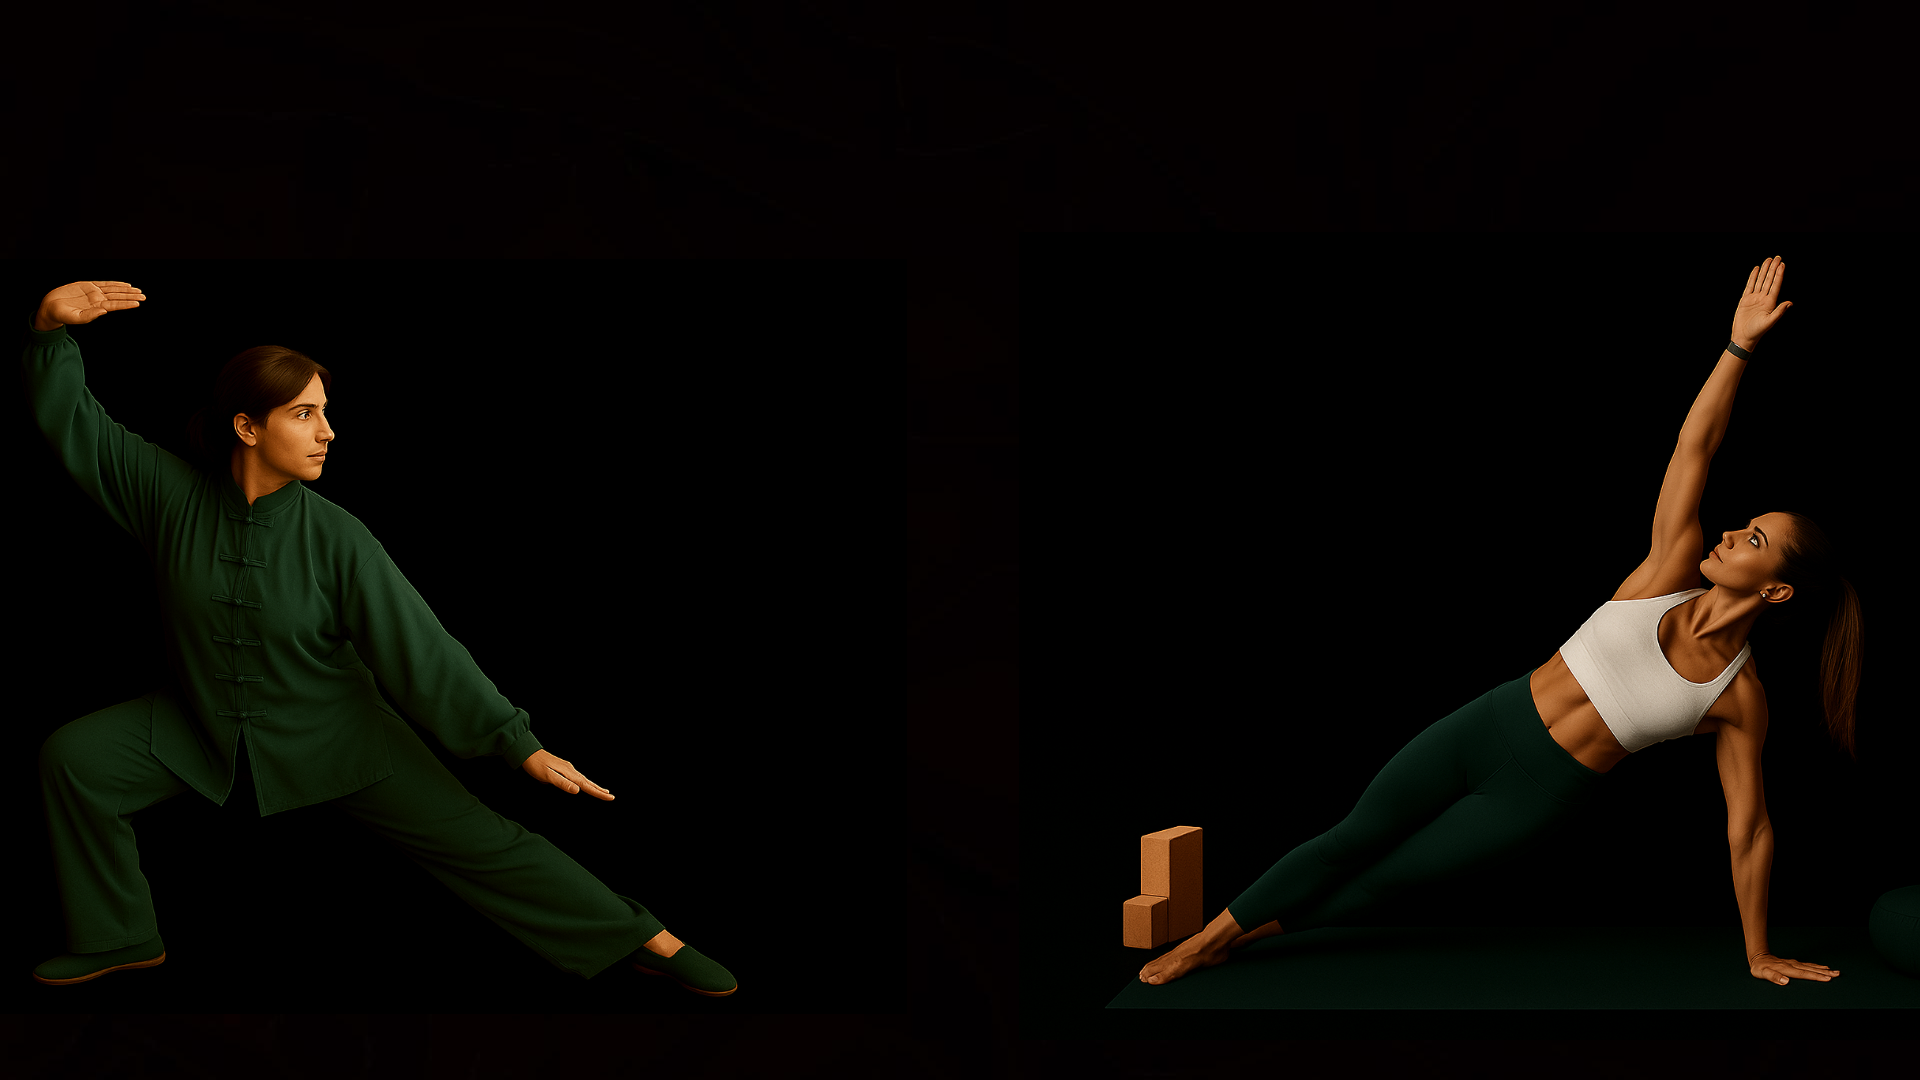
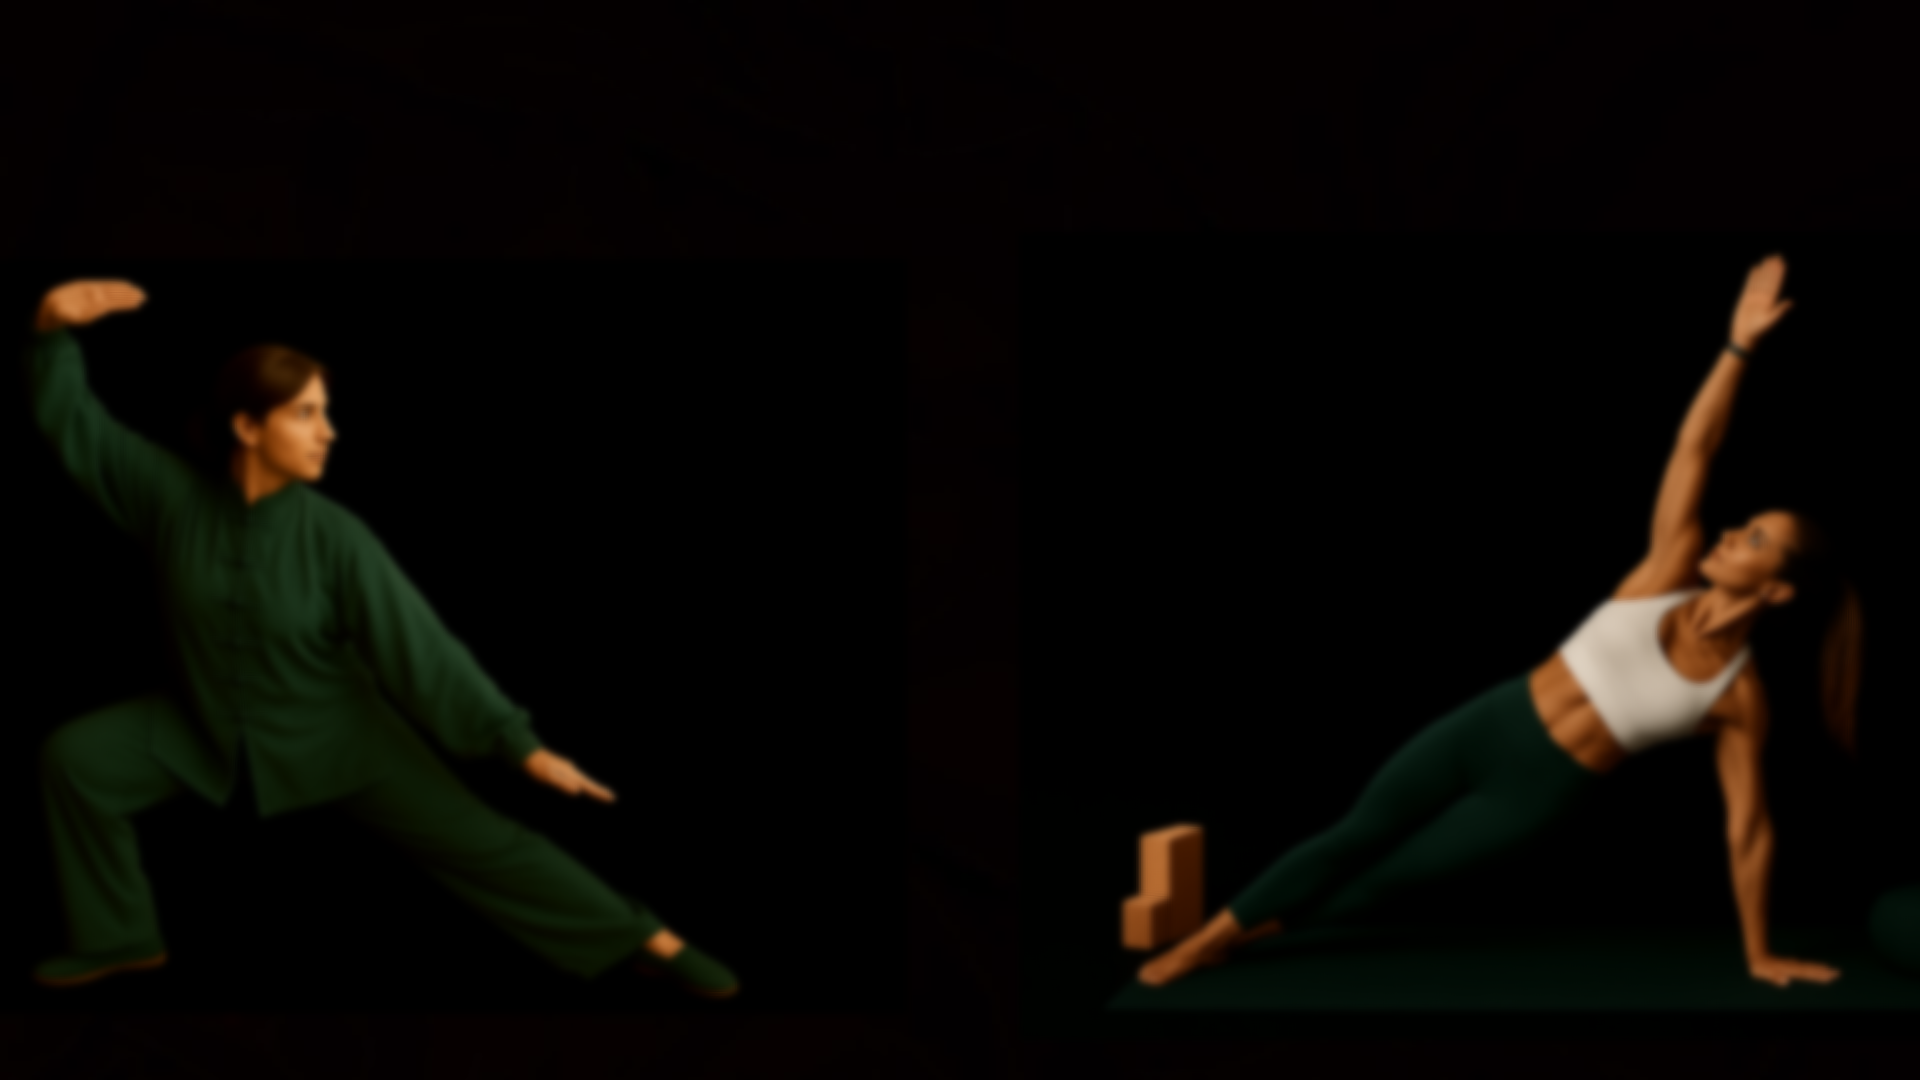
fixed tests

diff --git a/src/main/webapp/resources/css/styles.css b/src/main/webapp/resources/css/styles.css
@@ -103,6 +103,7 @@ body {
     flex-wrap: wrap; /* Wrap to next line on smaller screens */
     gap: 24px; /* Space between cards */
     padding: 0 20px;
+    align-items: flex-start;
 }
 
 /* === Individual plan card styling === */
@@ -1143,6 +1144,7 @@ nudging the focal point slightly higher so the top content stays in view */
   -webkit-backdrop-filter: saturate(120%) blur(2px);
   backdrop-filter: saturate(120%) blur(2px);
   position: relative; /* Needed for the badge */
+  
 }
 
 /* Highlighted "Most Popular" card */

diff --git a/src/test/java/com/watersidegym/controller/VideoGalleryBeanTest.java b/src/test/java/com/watersidegym/controller/VideoGalleryBeanTest.java
@@ -6,7 +6,6 @@ import org.junit.jupiter.api.Test;
 
 import java.util.List;
 import java.util.ArrayList;
-
 import static org.junit.jupiter.api.Assertions.*;
 
 public class VideoGalleryBeanTest {
@@ -23,13 +22,8 @@ public class VideoGalleryBeanTest {
     public void testPreload_addsVideos1() {
         List<Video> videos = bean.getVideos();
         assertNotNull(videos);
-        assertFalse(videos.isEmpty(), "Preload should add sample videos");
+        assertFalse(videos.isEmpty());
     }
-
-    
-
-   
-   
 
     @Test
     public void testFormFieldSettersAndGetters1() {
@@ -46,15 +40,10 @@ public class VideoGalleryBeanTest {
         assertEquals("Yoga", bean.getFormCategory());
     }
 
-  
-    
-    
-    
-  
         @Test
         void testPreload_addsVideos() {
             assertNotNull(bean.getVideos());
-            assertTrue(bean.getVideos().size() >= 6, "preload should add many videos");
+            assertEquals(6, bean.getVideos().size());
         }
 
         @Test
@@ -124,15 +113,14 @@ public class VideoGalleryBeanTest {
         void testDeleteVideo_existingVideo() {
             int initialSize = bean.getVideos().size();
             
-            int videoId = bean.getVideos().get(0).getId();
+            int video1 = bean.getVideos().get(0).getId();
             
-            bean.deleteVideo(videoId);
+            bean.deleteVideo(video1);
             
-            assertEquals(initialSize - 1, bean.getVideos().size(), "Video list size should decrease by 1");
+            int video2 = bean.getVideos().get(0).getId();    
             
-            boolean videoStillExists = bean.getVideos().stream()
-                    .anyMatch(v -> v.getId() == videoId);
-            assertFalse(videoStillExists, "Video should no longer exist in the list");
+            assertEquals(initialSize - 1, bean.getVideos().size());
+            assertFalse(video1 == video2);
         }
 
         @Test
@@ -141,7 +129,7 @@ public class VideoGalleryBeanTest {
             
             bean.deleteVideo(-1);
             
-            assertEquals(initialSize, bean.getVideos().size(), "Video list size should not change");
+            assertEquals(initialSize, bean.getVideos().size());
         }
 
         @Test
@@ -154,12 +142,7 @@ public class VideoGalleryBeanTest {
             bean.deleteVideo(firstVideoId);
             bean.deleteVideo(secondVideoId);
             
-            assertEquals(initialSize - 2, bean.getVideos().size(), "Video list size should decrease by 2");
-            
-            assertFalse(bean.getVideos().stream().anyMatch(v -> v.getId() == firstVideoId), 
-                    "First video should no longer exist");
-            assertFalse(bean.getVideos().stream().anyMatch(v -> v.getId() == secondVideoId), 
-                    "Second video should no longer exist");
+            assertEquals(initialSize - 2, bean.getVideos().size());
         }
 
         @Test

diff --git a/src/main/java/com/watersidegym/controller/VideoGalleryBean.java b/src/main/java/com/watersidegym/controller/VideoGalleryBean.java
@@ -4,9 +4,7 @@ import javax.annotation.PostConstruct;
 import javax.faces.application.FacesMessage;
 import javax.faces.bean.ApplicationScoped;
 import javax.faces.bean.ManagedBean;
-import javax.faces.bean.SessionScoped;
 import javax.faces.context.FacesContext;
-import javax.faces.event.AjaxBehaviorEvent;
 import javax.servlet.ServletContext;
 import javax.servlet.http.Part;     // used for file upload
 import com.watersidegym.model.User;
@@ -45,8 +43,6 @@ public class VideoGalleryBean {
 		addVideo("Incline Walk", "/resources/videos/Kickboxing_Rebecca_Louise.mp4", "2025-08-11", "How to use the threadmill at incline","Private", "Cardio Equipment", "Alex Byrne");
 		addVideo("Resistance Band Curl", "/resources/videos/Pooja_Aqua_Aerobics.mp4", "2025-08-11", "How to do a resistance band curl", "Public", "Bands", "Alex Byrne");
 		addVideo("Cable Row", "/resources/videos/Rachel_Lawrence_pilates.mp4", "2025-08-16", "How to do a cable row", "Hidden", "Machines", "Joe Soundman");
-
-
 	}
 
 	// ===== Adding video to the list =====

diff --git a/src/test/java/com/watersidegym/controller/MemberShipBeanTest.java b/src/test/java/com/watersidegym/controller/MemberShipBeanTest.java
@@ -4,8 +4,6 @@ import org.junit.jupiter.api.BeforeEach;
 import org.junit.jupiter.api.Test;
 import static org.junit.jupiter.api.Assertions.*;
 import javax.faces.application.FacesMessage;
-import javax.faces.context.FacesContext;
-
 import com.watersidegym.model.User;
 
 public class MemberShipBeanTest {
@@ -116,8 +114,6 @@ public class MemberShipBeanTest {
 
         // Override to simulate user update
         bean = new MemberShipBean() {
-            @Override
-            protected void addMessage(String msg, FacesMessage.Severity severity) {}
 
             @Override
             public String processPaymentPayPal() {

diff --git a/src/main/java/com/watersidegym/service/VideoService.java b/src/main/java/com/watersidegym/service/VideoService.java
@@ -4,13 +4,9 @@ import java.util.ArrayList;
 import java.util.List;
 
 import javax.annotation.PostConstruct;
-import javax.faces.bean.ApplicationScoped;
 import javax.faces.bean.ManagedBean;
 import javax.faces.bean.ManagedProperty;
 import javax.faces.bean.SessionScoped;
-import javax.faces.context.FacesContext;
-
-import com.watersidegym.controller.LoginBean;
 import com.watersidegym.controller.VideoGalleryBean;
 import com.watersidegym.model.User;
 import com.watersidegym.model.Video;
